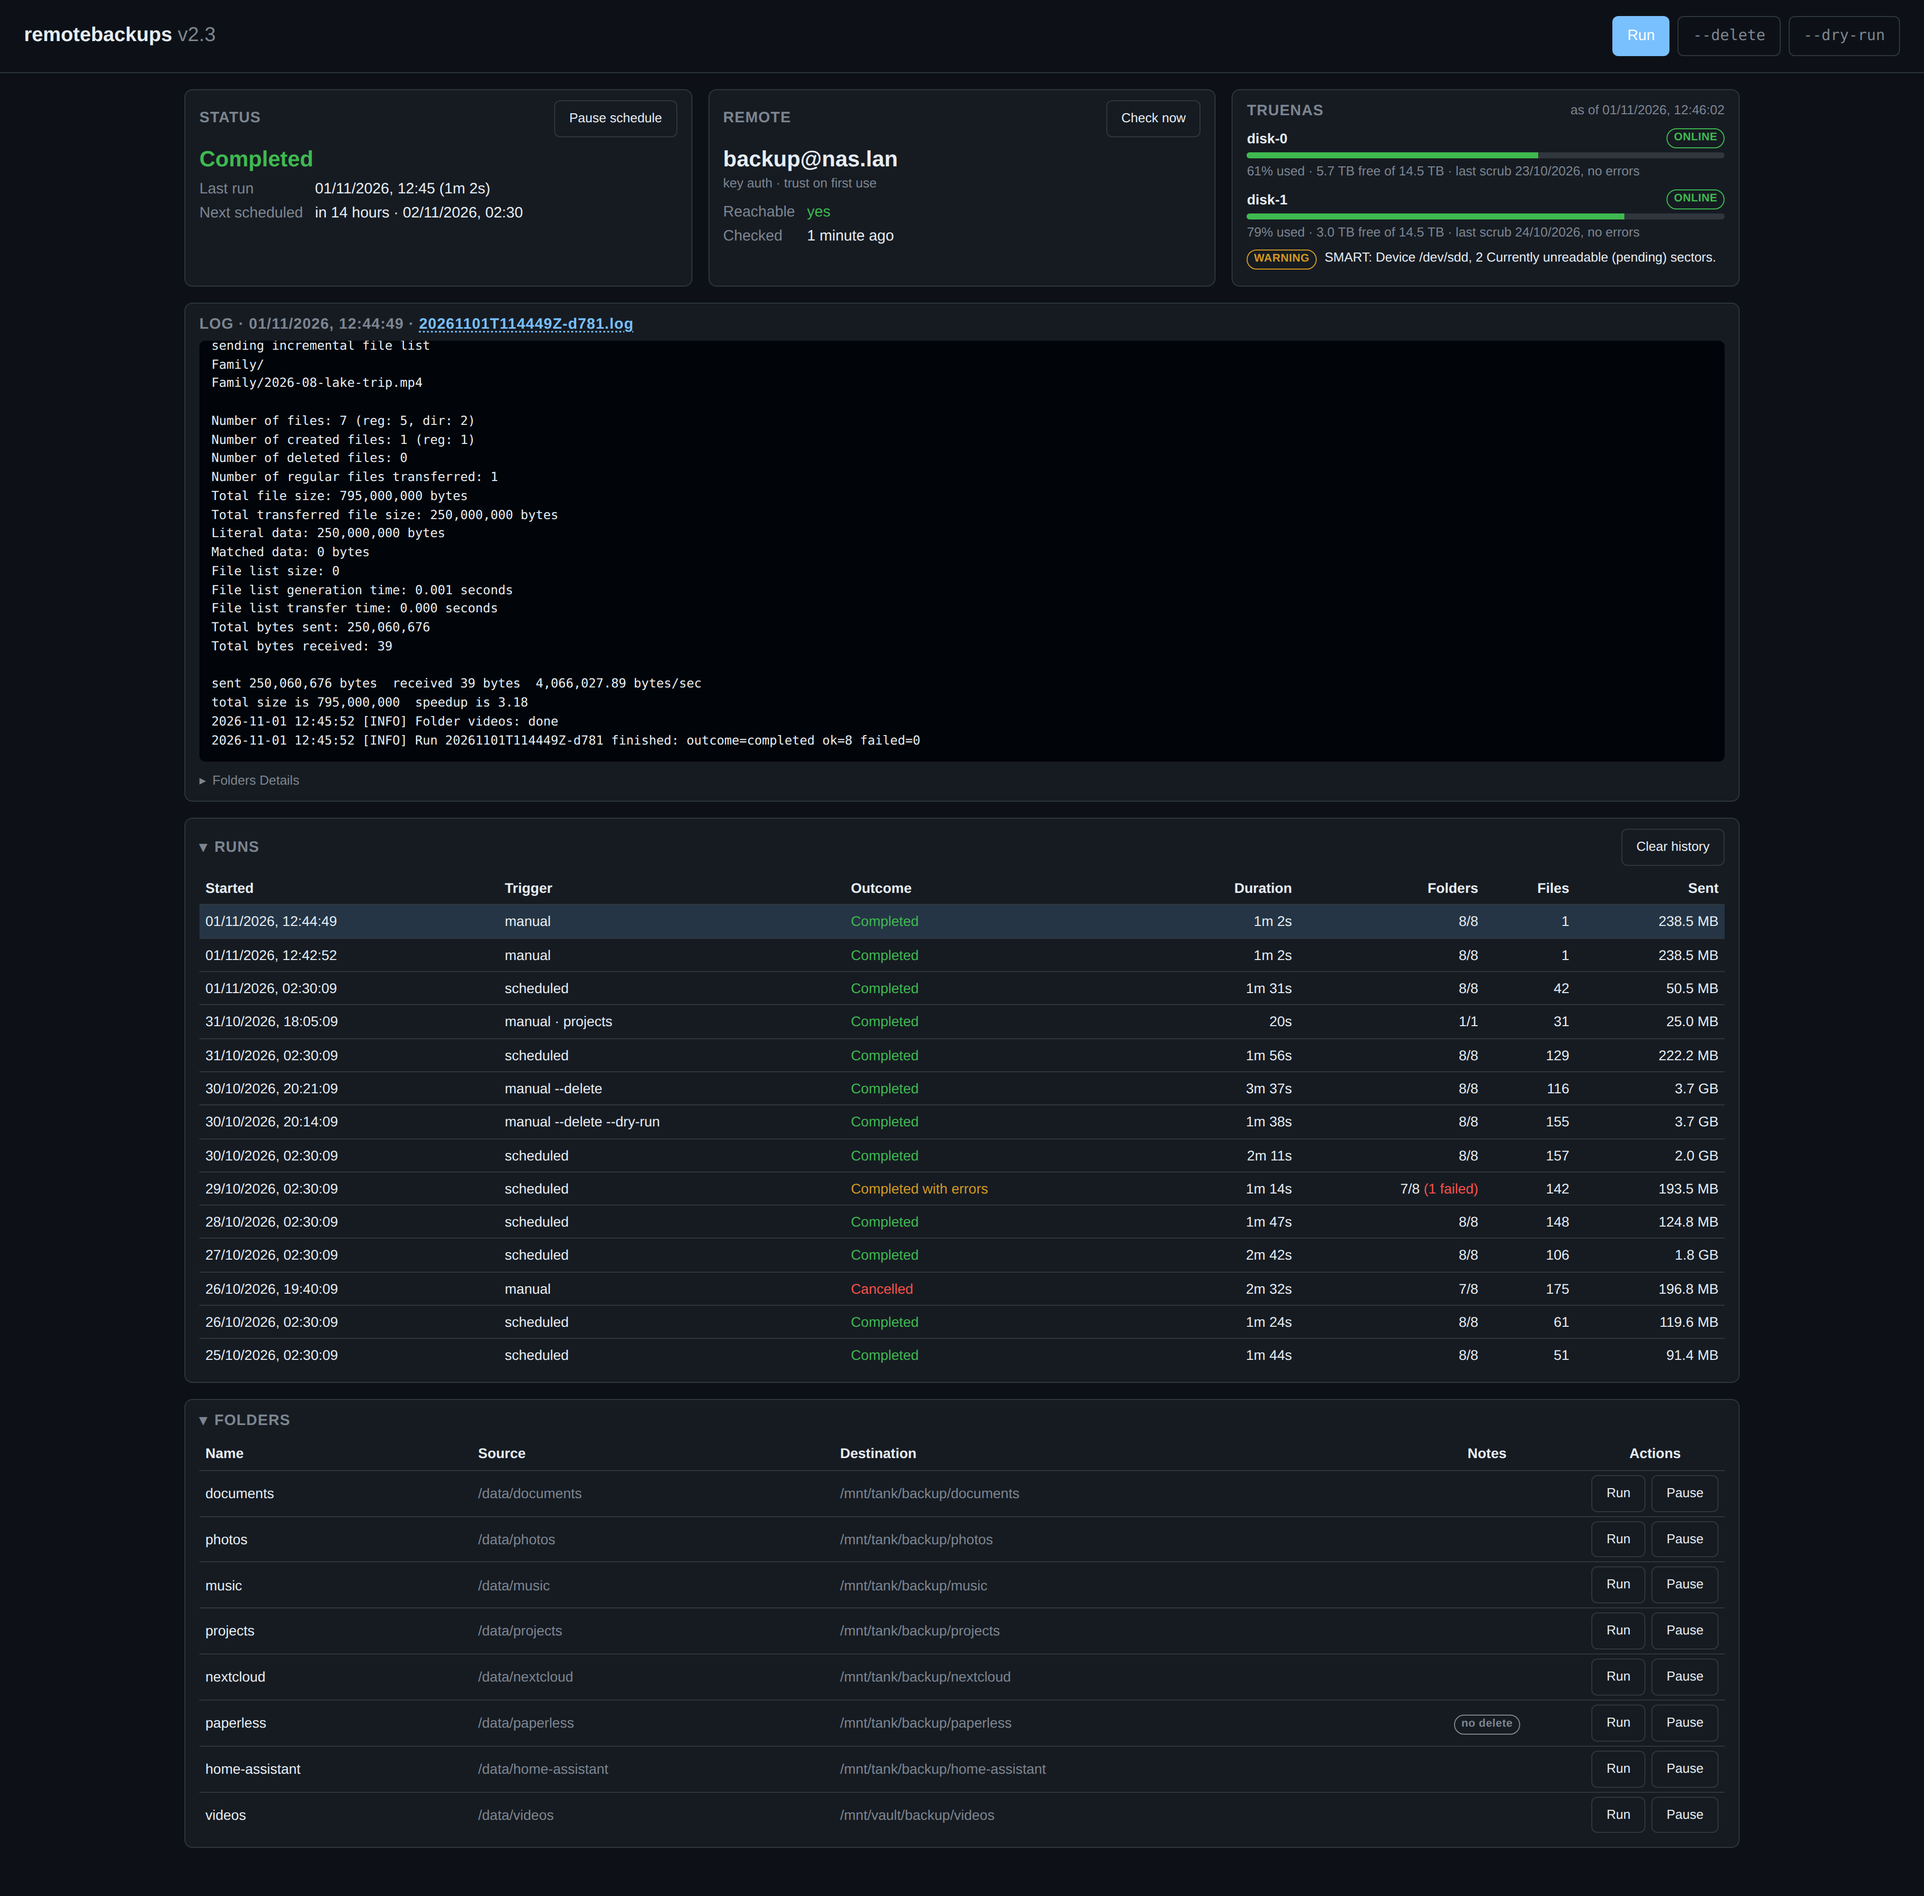
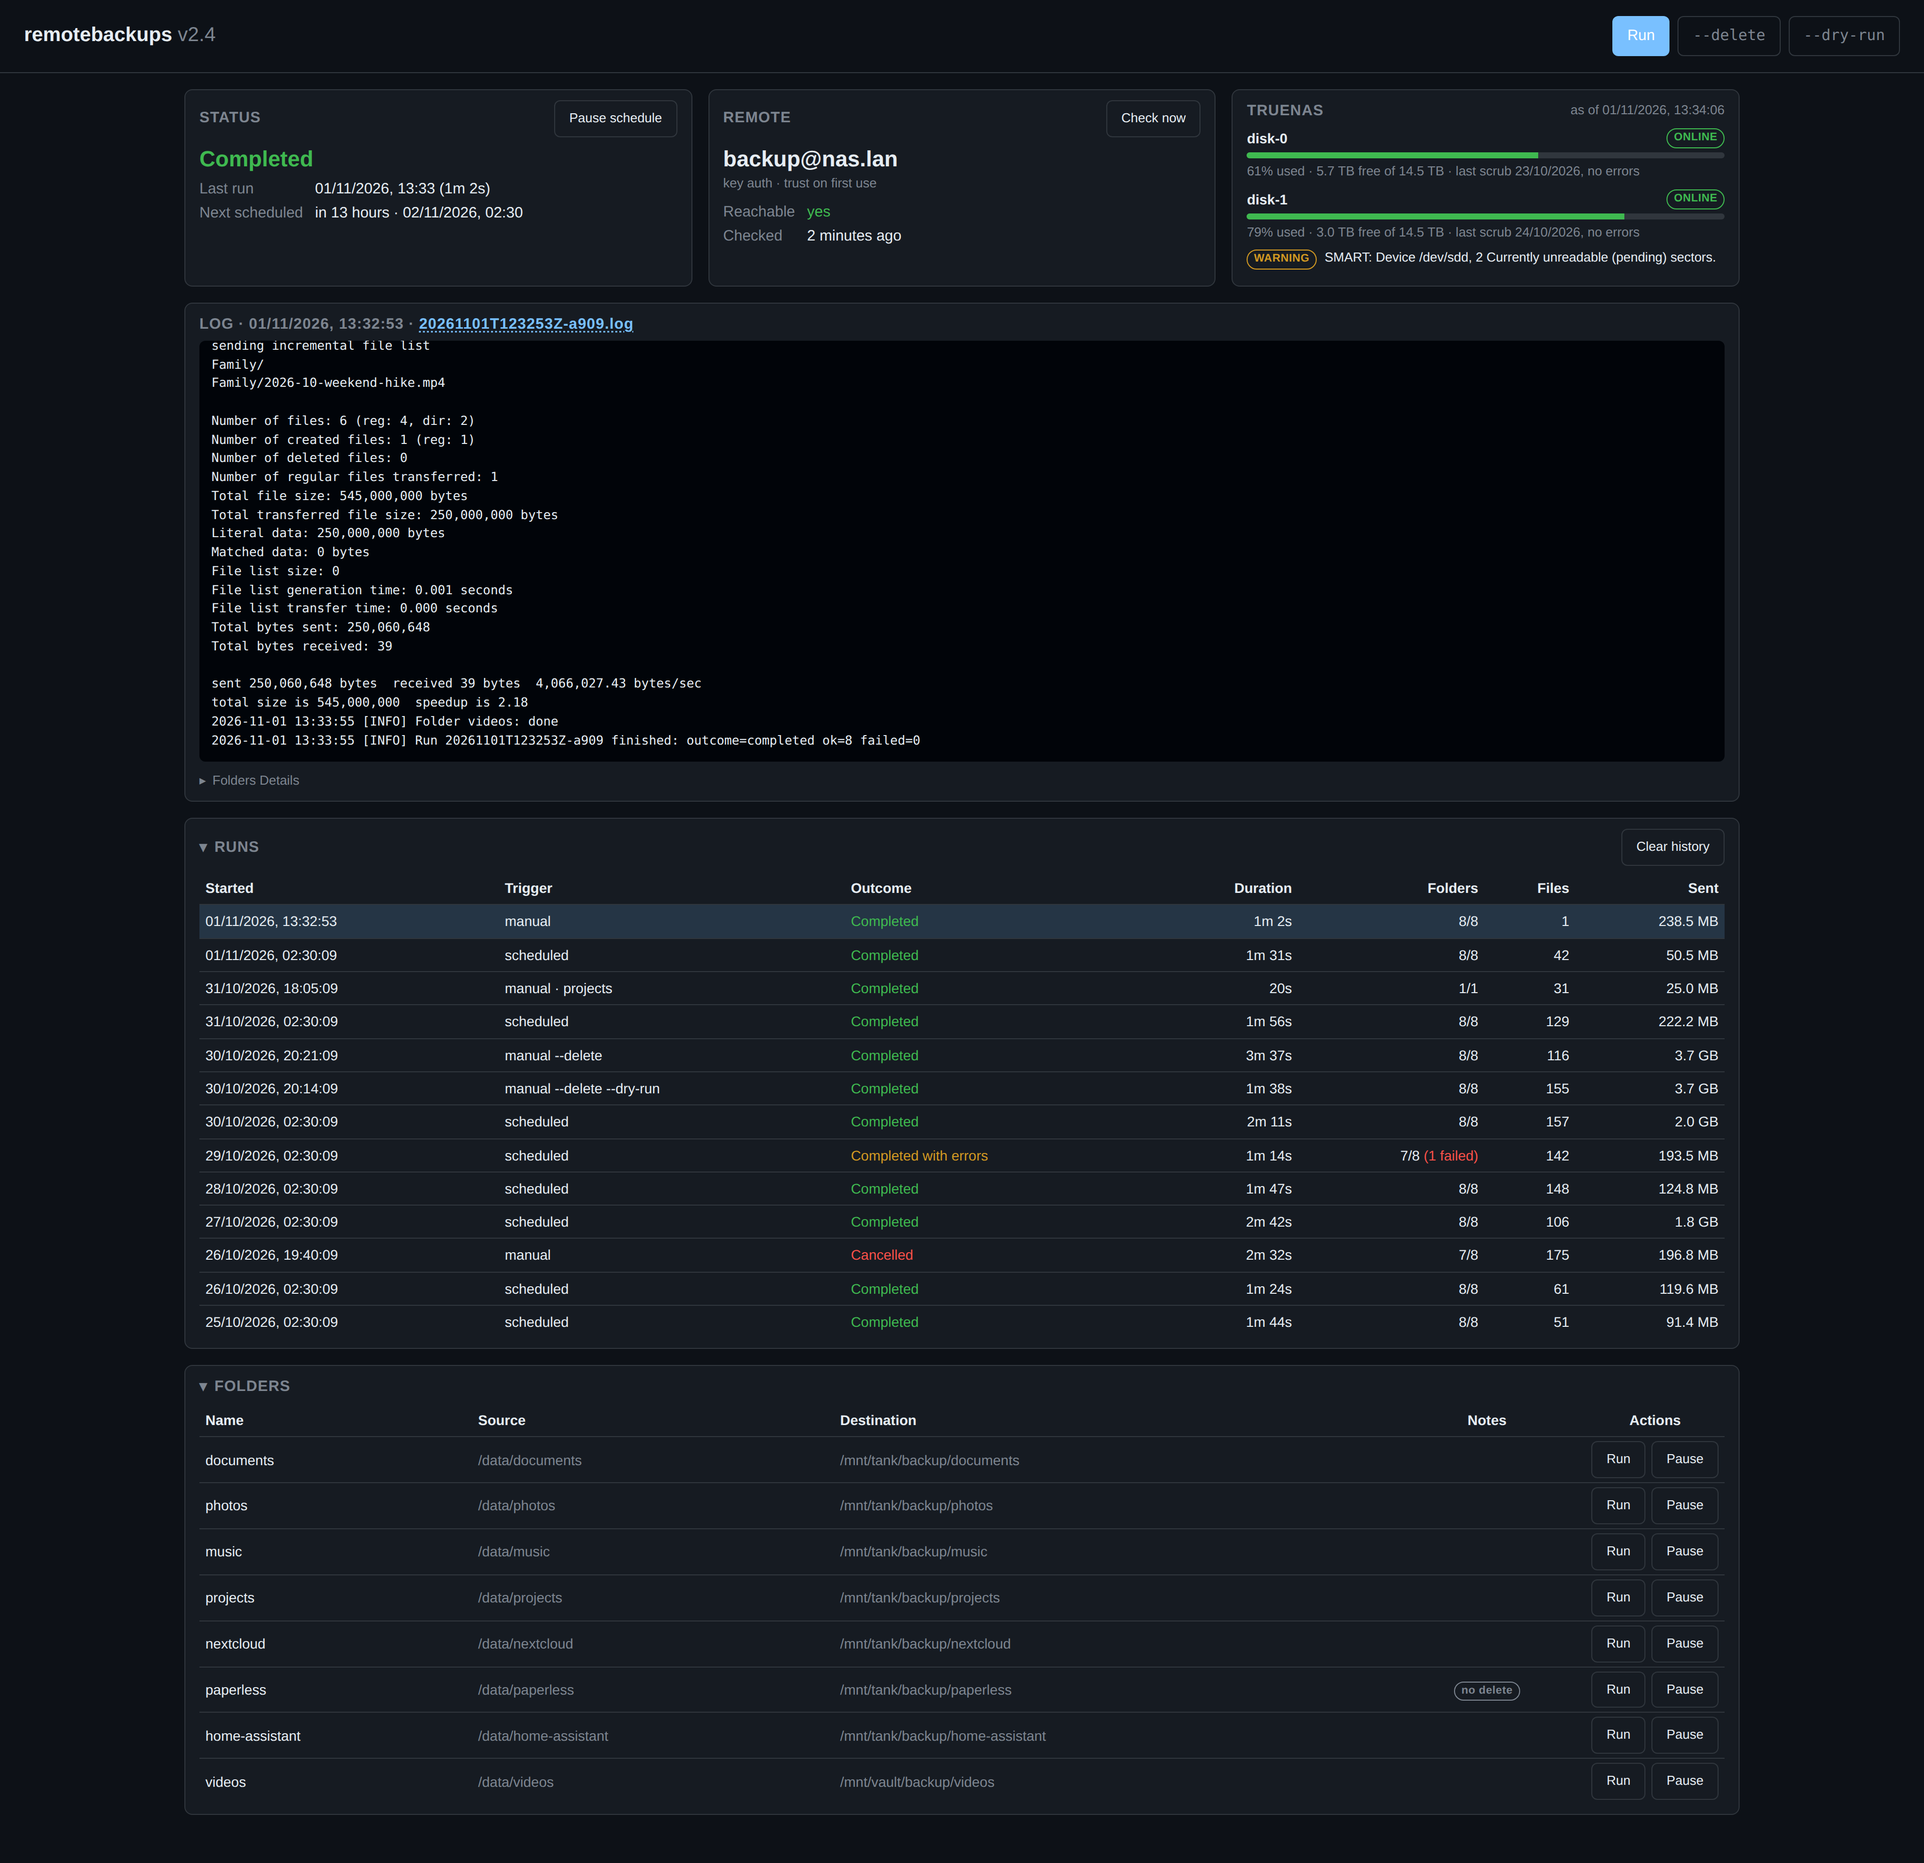
docs: screenshots at 2.4, and a script that retakes them
The captures were taken before the version bump and showed 2.3 in the
header. retake.sh runs the whole demo stack end to end, from the fake
TrueNAS endpoint to the three captures, so the next retake is one command.

diff --git a/docs/screenshots/demo/README.md b/docs/screenshots/demo/README.md
@@ -5,6 +5,9 @@ real host, user or folder names. The dev image, a real sshd reachable as `nas.la
 TrueNAS endpoint on the host, eight folders with generated files and a week of generated
 run history in the exact shape the application writes.
 
+`make build` at the repository root, then `docs/screenshots/demo/retake.sh` does all of the
+below and replaces the three files in `docs/screenshots/`. Step by step:
+
 ```bash
 make build                                                   # remotebackups:dev
 cd docs/screenshots/demo
